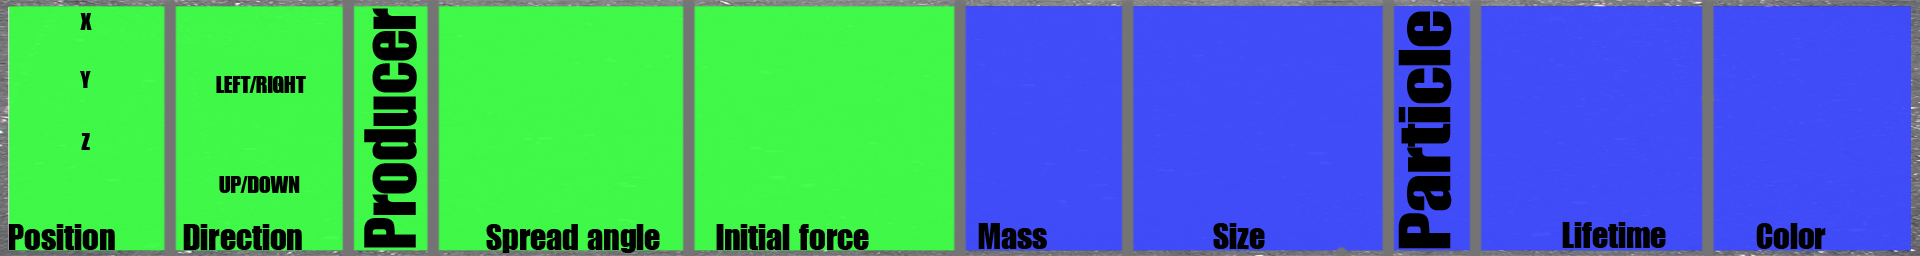
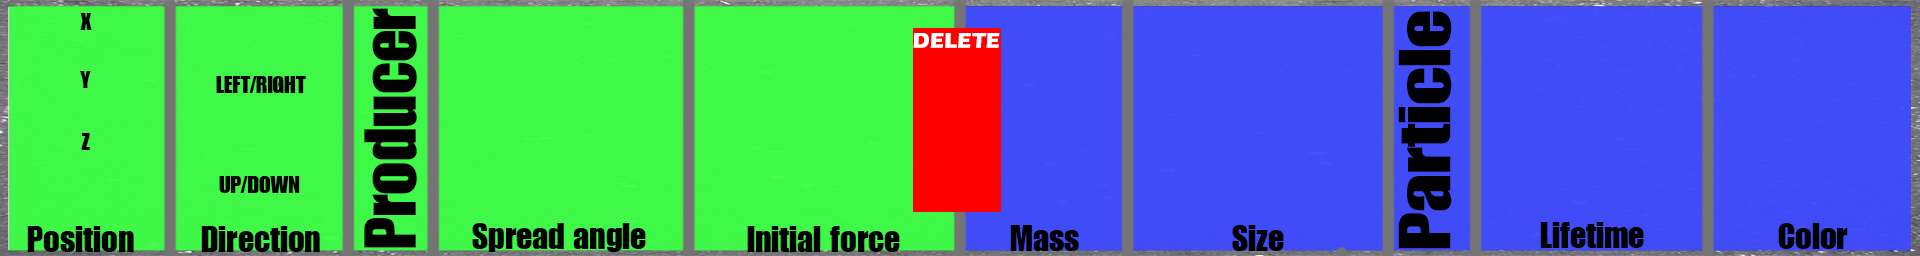
MORE BUTTONS

diff --git a/ParticleEngine2/source/Producer.cpp b/ParticleEngine2/source/Producer.cpp
@@ -133,9 +133,9 @@ HudElement* Producer::getHudElement(cml::vector2f size)
 	imageincreaseS->setImage("assets/buttonMinus.png");
 	ImageElement* imagedecreaseS = new ImageElement(cml::vector2f(0,0),cml::vector2i(1,1),cml::vector4d(0,0,0,0));
 	imagedecreaseS->setImage("assets/buttonPlus.png");
-	Button<Producer>* buttonIncreaseStrength = new Button<Producer>(this, &Producer::increaseSpreadStrength, cml::vector2f(0.285, 0.1), cml::vector2f(0.03,0.15), cml::vector4f(0.4,0.4,0.4,0));
+	Button<Producer>* buttonIncreaseStrength = new Button<Producer>(this, &Producer::increaseSpreadStrength, cml::vector2f(0.28, 0.1), cml::vector2f(0.03,0.15), cml::vector4f(0.4,0.4,0.4,0));
 	buttonIncreaseStrength->addSubElement(imagedecreaseS);
-	Button<Producer>* buttonDecreaseStrength = new Button<Producer>(this, &Producer::decreaseSpreadStrength, cml::vector2f(0.285, 0.6), cml::vector2f(0.03,0.15), cml::vector4f(0.4,0.4,0.4,0));
+	Button<Producer>* buttonDecreaseStrength = new Button<Producer>(this, &Producer::decreaseSpreadStrength, cml::vector2f(0.28, 0.6), cml::vector2f(0.03,0.15), cml::vector4f(0.4,0.4,0.4,0));
 	buttonDecreaseStrength->addSubElement(imageincreaseS);
 	
 	//Particle
@@ -144,11 +144,34 @@ HudElement* Producer::getHudElement(cml::vector2f size)
 	imageIncMass->setImage("assets/buttonPlus.png");
 	ImageElement* imageDecMass = new ImageElement(cml::vector2f(0,0),cml::vector2i(1,1),cml::vector4d(0,0,0,0));
 	imageDecMass->setImage("assets/buttonMinus.png");
-	Button<Producer>* buttonincreaseMass= new Button<Producer>(this, &Producer::increaseMass, cml::vector2f(0.5255, 0.1), cml::vector2f(0.03,0.15), cml::vector4f(0.4,0.4,0.4,0));
+	Button<Producer>* buttonincreaseMass= new Button<Producer>(this, &Producer::increaseMass, cml::vector2f(0.528, 0.1), cml::vector2f(0.03,0.15), cml::vector4f(0.4,0.4,0.4,0));
 	buttonincreaseMass->addSubElement(imageIncMass);
-	Button<Producer>* buttondecreaseMass= new Button<Producer>(this, &Producer::decreaseMass, cml::vector2f(0.5255, 0.6), cml::vector2f(0.03,0.15), cml::vector4f(0.4,0.4,0.4,0));
+	Button<Producer>* buttondecreaseMass= new Button<Producer>(this, &Producer::decreaseMass, cml::vector2f(0.528, 0.6), cml::vector2f(0.03,0.15), cml::vector4f(0.4,0.4,0.4,0));
 	buttondecreaseMass->addSubElement(imageDecMass);
-	
+	//Size
+	ImageElement* imageIncSize = new ImageElement(cml::vector2f(0,0),cml::vector2i(1,1),cml::vector4d(0,0,0,0));
+	imageIncSize->setImage("assets/buttonPlus.png");
+	ImageElement* imageDecSize = new ImageElement(cml::vector2f(0,0),cml::vector2i(1,1),cml::vector4d(0,0,0,0));
+	imageDecSize->setImage("assets/buttonMinus.png");
+	Button<Producer>* buttonincreaseSize= new Button<Producer>(this, &Producer::increaseMass, cml::vector2f(0.64, 0.1), cml::vector2f(0.03,0.15), cml::vector4f(0.4,0.4,0.4,0));
+	buttonincreaseSize->addSubElement(imageIncSize);
+	Button<Producer>* buttondecreaseSize= new Button<Producer>(this, &Producer::decreaseMass, cml::vector2f(0.64, 0.6), cml::vector2f(0.03,0.15), cml::vector4f(0.4,0.4,0.4,0));
+	buttondecreaseSize->addSubElement(imageDecSize);
+	//Lifetime
+	ImageElement* imageIncLife = new ImageElement(cml::vector2f(0,0),cml::vector2i(1,1),cml::vector4d(0,0,0,0));
+	imageIncLife->setImage("assets/buttonPlus.png");
+	ImageElement* imageDecLife = new ImageElement(cml::vector2f(0,0),cml::vector2i(1,1),cml::vector4d(0,0,0,0));
+	imageDecLife->setImage("assets/buttonMinus.png");
+	Button<Producer>* buttonincreaseLife= new Button<Producer>(this, &Producer::increaseLifeTime, cml::vector2f(0.815, 0.1), cml::vector2f(0.03,0.15), cml::vector4f(0.4,0.4,0.4,0));
+	buttonincreaseLife->addSubElement(imageIncLife);
+	Button<Producer>* buttondecreaseLife= new Button<Producer>(this, &Producer::decreaseLifeTime, cml::vector2f(0.815, 0.6), cml::vector2f(0.03,0.15), cml::vector4f(0.4,0.4,0.4,0));
+	buttondecreaseLife->addSubElement(imageDecLife);
+	//Color
+	ImageElement* imageColor = new ImageElement(cml::vector2f(0,0),cml::vector2i(1,1),cml::vector4d(0,0,0,0));
+	imageColor->setImage("assets/buttonMinus.png");
+	Button<Producer>* buttonColor= new Button<Producer>(this, &Producer::changeColor, cml::vector2f(0.9125, 0.16), cml::vector2f(0.06,0.6), cml::vector4f(0.4,0.4,0.4,0));
+	buttonColor->addSubElement(imageColor);
+
 	//Pos
 	Button<Producer>* buttonincreaseX= new Button<Producer>(this, &Producer::decreasePosX, cml::vector2f(0.05, 0.1), cml::vector2f(0.03,0.15), cml::vector4f(0.4,0.4,0.4,0));
 	buttonincreaseX->addSubElement(imageincreaseX);
@@ -175,9 +198,9 @@ HudElement* Producer::getHudElement(cml::vector2f size)
 	Button<Producer>* buttondecreaseDirecY= new Button<Producer>(this, &Producer::increaseDirecY, cml::vector2f(0.14, 0.5), cml::vector2f(0.03,0.15), cml::vector4f(0.4,0.4,0.4,0));
 	buttondecreaseDirecY->addSubElement(imagedecreaseY2);
 	//Strengh
-	Button<Producer>* buttonincreaseStrength= new Button<Producer>(this, &Producer::increaseStrength, cml::vector2f(0.4, 0.1), cml::vector2f(0.03,0.15), cml::vector4f(0.4,0.4,0.4,0));
+	Button<Producer>* buttonincreaseStrength= new Button<Producer>(this, &Producer::increaseStrength, cml::vector2f(0.4125, 0.1), cml::vector2f(0.03,0.15), cml::vector4f(0.4,0.4,0.4,0));
 	buttonincreaseStrength->addSubElement(imageincreaseStrength);
-	Button<Producer>* buttondecreaseStrength= new Button<Producer>(this, &Producer::decreaseStrength, cml::vector2f(0.4, 0.6), cml::vector2f(0.03,0.15), cml::vector4f(0.4,0.4,0.4,0));
+	Button<Producer>* buttondecreaseStrength= new Button<Producer>(this, &Producer::decreaseStrength, cml::vector2f(0.4125, 0.6), cml::vector2f(0.03,0.15), cml::vector4f(0.4,0.4,0.4,0));
 	buttondecreaseStrength->addSubElement(imagedecreaseStrength);
 
 	hudElement->addSubElement(buttonIncreaseStrength);
@@ -201,6 +224,14 @@ HudElement* Producer::getHudElement(cml::vector2f size)
 	//MASS
 	hudElement->addSubElement(buttonincreaseMass);
 	hudElement->addSubElement(buttondecreaseMass);
+	//Size
+	hudElement->addSubElement(buttonincreaseSize);
+	hudElement->addSubElement(buttondecreaseSize);
+	//Life
+	hudElement->addSubElement(buttonincreaseLife);
+	hudElement->addSubElement(buttondecreaseLife);
+	//Color
+	hudElement->addSubElement(buttonColor);
 	//BG
 	hudElement->addSubElement(hudBG);
 	 
@@ -316,14 +347,18 @@ void Producer::decreaseSize()
 }
 void Producer::increaseLifeTime()
 {
+	particleSpecification_.lifetime+=100;
 }
 void Producer::decreaseLifeTime()
 {
-	particleSpecification_.lifetime+=100;
+	if(particleSpecification_.lifetime>100){
+		particleSpecification_.lifetime-=100;
+	}
 }
 void Producer::changeColor()
 {
-	if(particleSpecification_.lifetime >100){
-		particleSpecification_.lifetime-=100;
-	}
+	cml::vector4d color;
+	color.random(0,1);
+	color[3]=0;
+	particleSpecification_.color=color;
 }

diff --git a/ParticleEngine2/source/InputOutputController.cpp b/ParticleEngine2/source/InputOutputController.cpp
@@ -281,6 +281,10 @@ void InputOutputController::select3dObject(int x, int y)
 	}
 	if(selected!=0){
 		hudElementBottom_=selected->getHudElement(cml::vector2f(1,0.2));
+		HudElement* container= new HudElement(cml::vector2f(0.5,0.5),cml::vector2f(0.05,0.2),cml::vector4f(0,0,0,0));
+		Button<InputOutputController>* but=new Button<InputOutputController>(this,&InputOutputController::addAffector, cml::vector2f(1,1), cml::vector2f(1,1), cml::vector4f(0.4,0.4,0.4,0));
+		container->addSubElement(but);
+		hudElementBottom_->addSubElement(container);
 	}
 }
 
@@ -299,7 +303,7 @@ void InputOutputController::drawGrid()
 		glEnd();
 	}
 	glBegin(GL_QUADS);
-		glColor4d(0.3,0.3,0.3,0.6);	
+		glColor4d(0.3,0.3,0.3,0.8);	
 		glVertex3i(-gridRange_,0,-gridRange_);
 		glVertex3i(gridRange_,0,-gridRange_);
 		glVertex3i(gridRange_,0,gridRange_);
